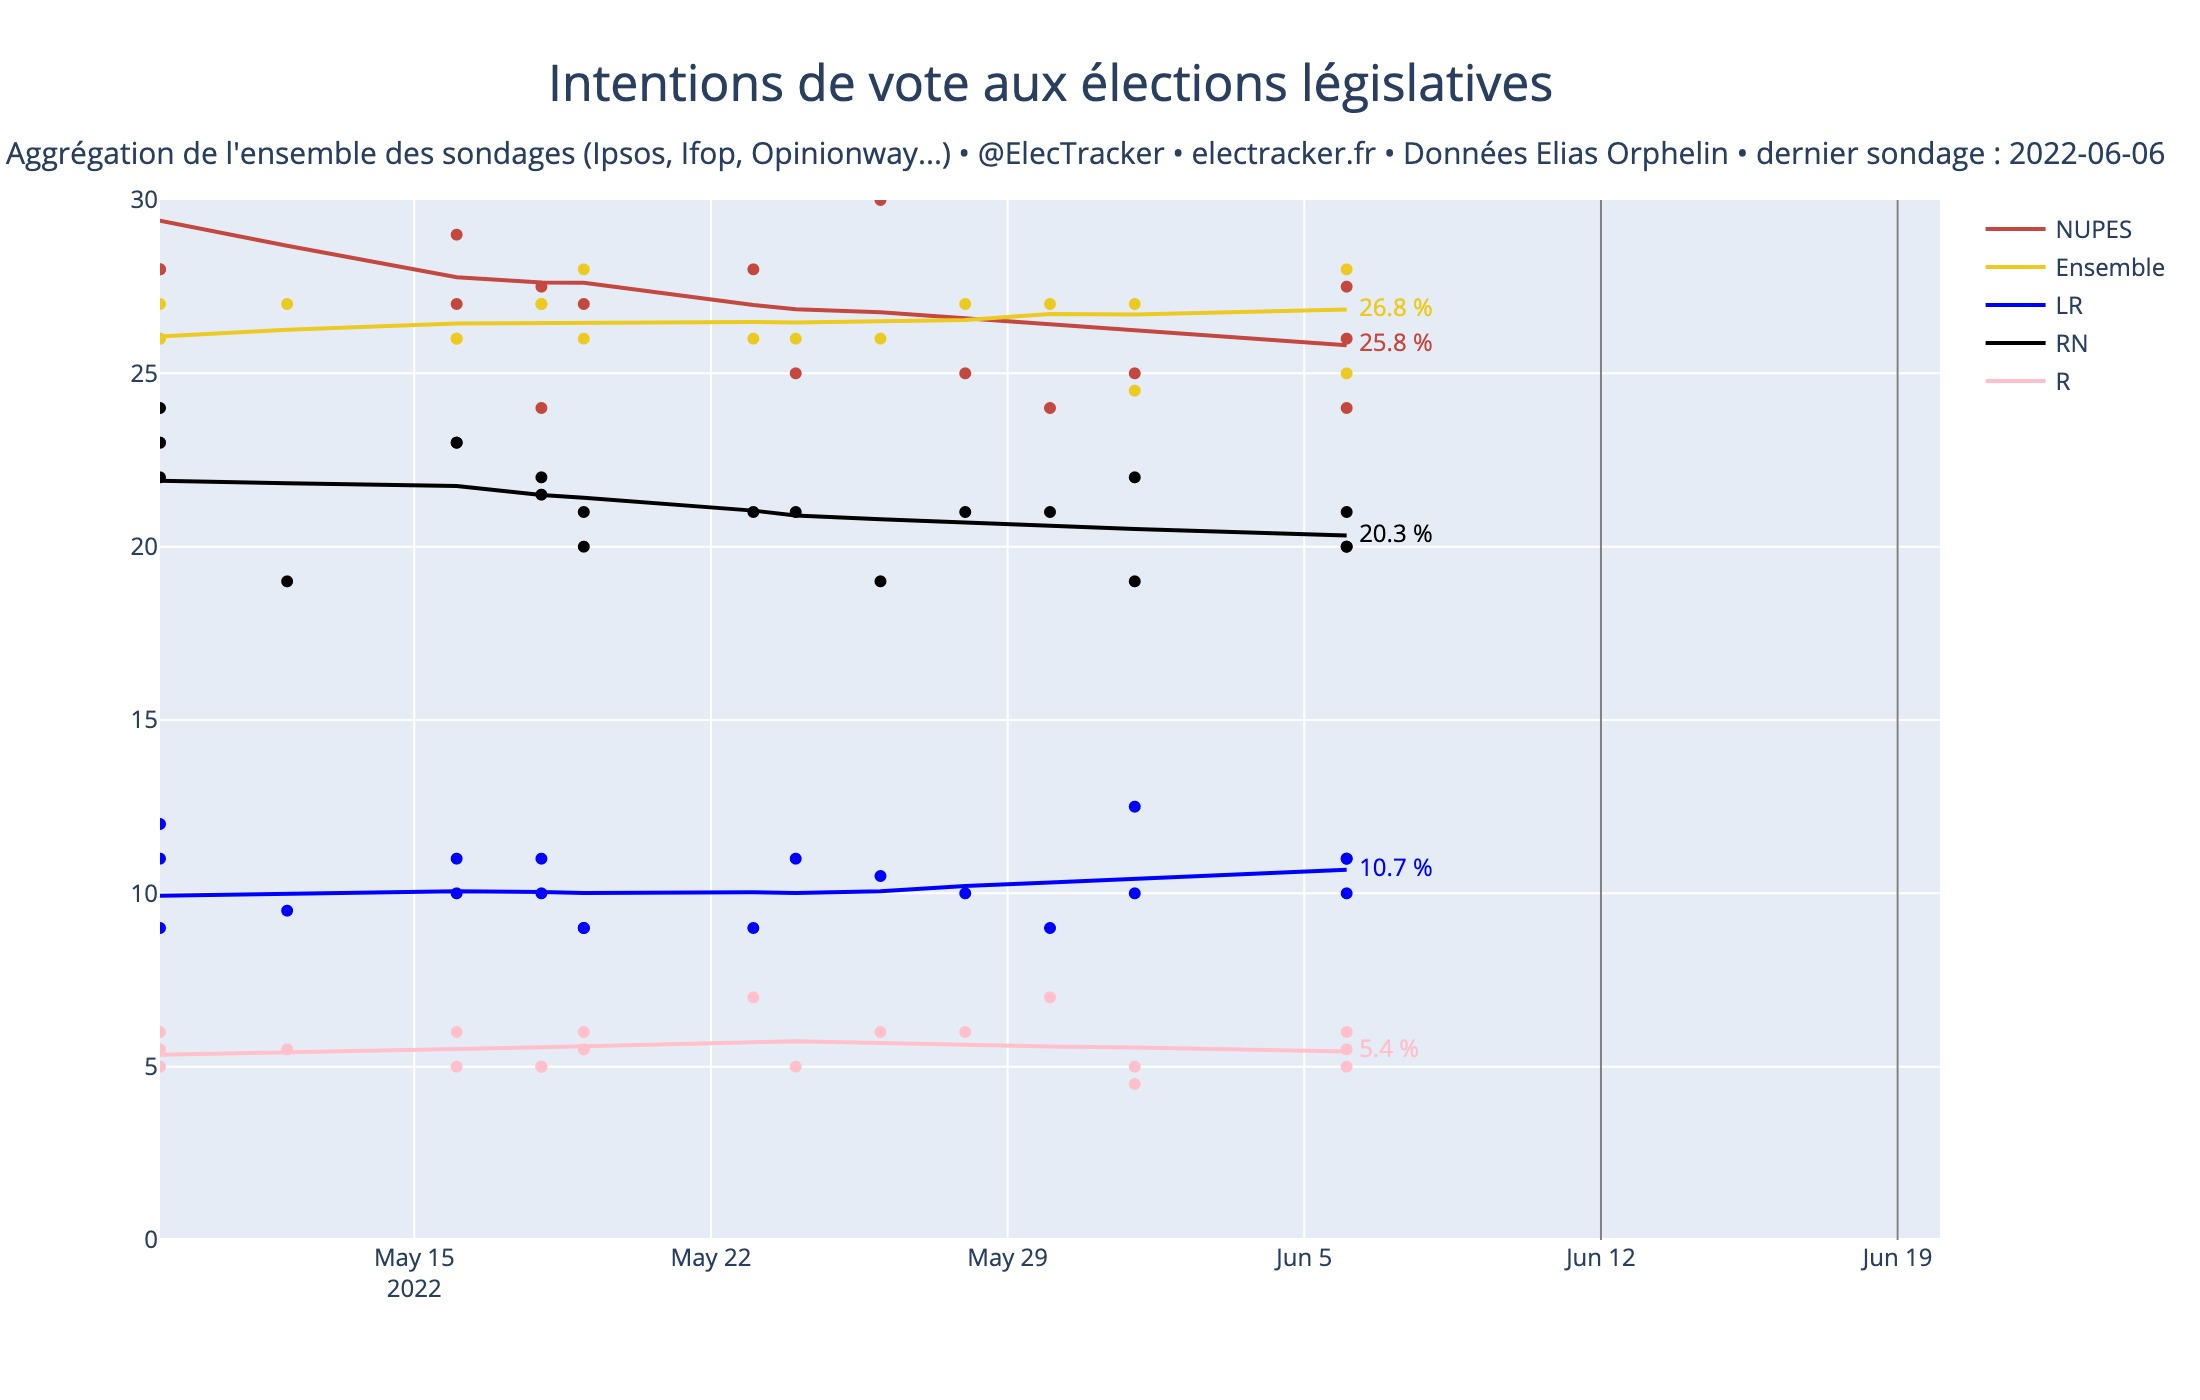
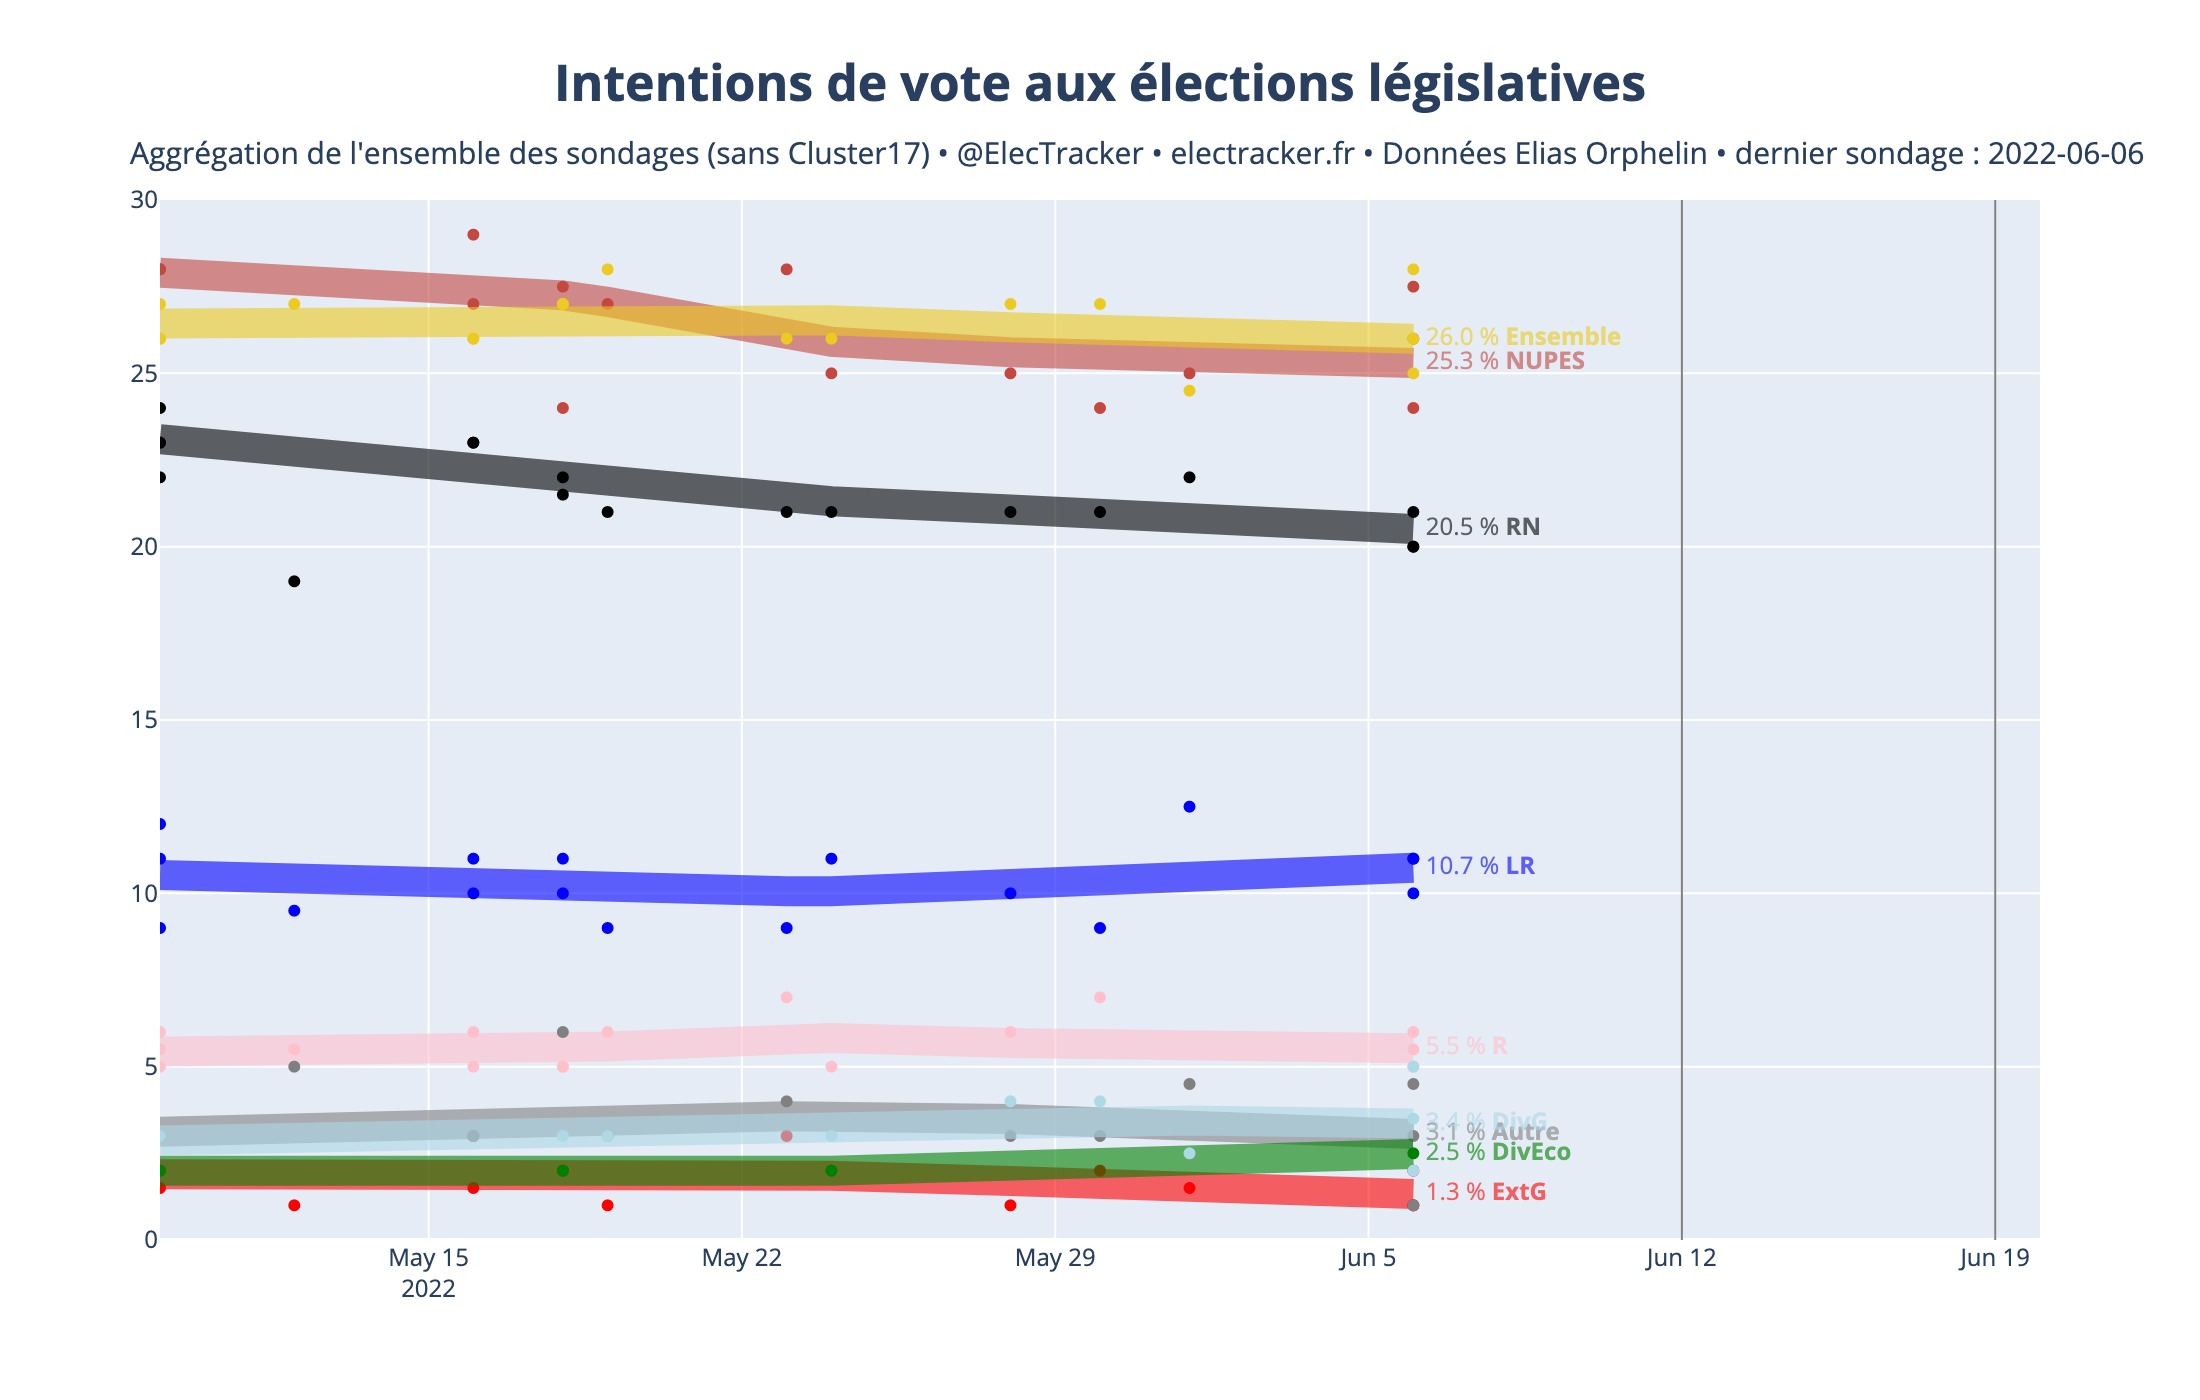
Améliorations visuelles des graphiques

diff --git a/src/graphique.py b/src/graphique.py
@@ -11,7 +11,10 @@ couleurs={
     "ExtG": "red",
     "RN": "black",
     "LR": "blue",
-    "R": "pink"
+    "R": "pink",
+    "DivEco": "green",
+    "DivG": "lightblue",
+    "Autre": "grey"
 }
 
 print(data.keys())
@@ -46,10 +49,21 @@ def graphique_sieges():
                     mode="lines+text",
                     marker_color=couleurs.get(parti, "black"),
                     name=parti,
+                    showlegend=False,
                     text=[""] * (len(data[parti]["sieges_haut_loess"])-1) + ["  " + str(round(data[parti]["sieges_bas_loess"][-1]))],
                     textposition="middle right",
                     textfont=dict(color=couleurs.get(parti, "black")),
                 )
+            )
+
+            fig.add_annotation(
+                x=data[parti]["fin_enquete"][-1],
+                y=(data[parti]["sieges_bas_loess"][-1]+data[parti]["sieges_haut_loess"][-1])/2,
+                text="     <b>" + parti + "</b>",
+                ay=0,
+                showarrow=False,
+                xanchor='left',
+                font=dict(color=couleurs.get(parti, "black"))
             )
 
             for numero_sondage in range(len(data[parti]["sieges_bas"])):
@@ -104,7 +118,7 @@ def graphique_sieges():
             "y": 1.15,
             "xref": "paper",
             "yref": "paper",
-            "text": f"Projection des sièges aux élections législatives",
+            "text": f"<b>Projection des sièges aux élections législatives</b>",
             "font": {"size": 25,},
             "xanchor": "center",
             "showarrow": False,
@@ -116,7 +130,7 @@ def graphique_sieges():
             "y": 1.07,
             "xref": "paper",
             "yref": "paper",
-            "text": f"Aggrégation de l'ensemble des sondages (Ipsos, Ifop, Opinionway...) • @ElecTracker • electracker.fr • Données Elias Orphelin • dernier sondage : {data['Ensemble']['fin_enquete'][-1]}",
+            "text": f"Aggrégation de l'ensemble des sondages • @ElecTracker • electracker.fr • Données Elias Orphelin • dernier sondage : {data['Ensemble']['fin_enquete'][-1]}",
             "font": {"size": 15},
             "xanchor": "center",
             "showarrow": False,
@@ -130,7 +144,7 @@ def graphique_score():
 
     for parti in data:
         
-        if parti not in ["Autre", "ExtG", "DivEco", "PA", "DivG"]:
+        if parti not in []: #["Autre", "ExtG", "DivEco", "PA", "DivG"]:
             print(parti)
             fig.add_trace(
                 go.Scatter(
@@ -149,8 +163,10 @@ def graphique_score():
                     y=data[parti]["score_loess"],
                     marker_color=couleurs.get(parti, "black"),
                     mode="lines+text",
-                    showlegend=True,
-                    text=[""] * (len(data[parti]["score"])-1) + ["  " + str(round(data[parti]["score_loess"][-1], 1)) + " %"],
+                    line_width=15,
+                    opacity=0.6,
+                    showlegend=False,
+                    text=[""] * (len(data[parti]["score"])-1) + ["  " + str(round(data[parti]["score_loess"][-1], 1)) + " % <b>" + parti + "</b>"],
                     textposition="middle right",
                     textfont=dict(color=couleurs.get(parti, "black")),
                     name=parti
@@ -192,7 +208,7 @@ def graphique_score():
             "y": 1.15,
             "xref": "paper",
             "yref": "paper",
-            "text": f"Intentions de vote aux élections législatives",
+            "text": f"<b>Intentions de vote aux élections législatives</b>",
             "font": {"size": 25,},
             "xanchor": "center",
             "showarrow": False,
@@ -204,7 +220,7 @@ def graphique_score():
             "y": 1.07,
             "xref": "paper",
             "yref": "paper",
-            "text": f"Aggrégation de l'ensemble des sondages (Ipsos, Ifop, Opinionway...) • @ElecTracker • electracker.fr • Données Elias Orphelin • dernier sondage : {data['Ensemble']['fin_enquete'][-1]}",
+            "text": f"Aggrégation de l'ensemble des sondages (sans Cluster17) • @ElecTracker • electracker.fr • Données Elias Orphelin • dernier sondage : {data['Ensemble']['fin_enquete'][-1]}",
             "font": {"size": 15},
             "xanchor": "center",
             "showarrow": False,

diff --git a/src/loess_mean.py b/src/loess_mean.py
@@ -26,10 +26,10 @@ def export_json():
     with open('SondagesLegislatives2022Loess.json', 'w') as outfile:
         json.dump(dict_json, outfile)
 
-def get_loess_mean(df_parti):
+def get_loess_mean(df_parti, frac=0.8):
     fin_enquete_ts = pd.to_datetime(df_parti["fin_enquete"], format="%d/%m/%Y").astype(np.int64) // 10 ** 9
     y = df_parti.intentions.values
-    xout, yout, wout = loess_1d.loess_1d(fin_enquete_ts.values, y, xnew=None, degree=1, frac=0.8, npoints=None, rotate=False, sigy=None)
+    xout, yout, wout = loess_1d.loess_1d(fin_enquete_ts.values, y, xnew=None, degree=1, frac=frac, npoints=None, rotate=False, sigy=None)
     xout_dt = [datetime.datetime.fromtimestamp(date).strftime('%Y-%m-%d') for date in xout]
     return xout_dt, yout, y
 
@@ -48,7 +48,8 @@ def main():
             xout_dt, yout_sieges_bas_loess, yout_sieges_bas = get_loess_mean(df_parti_sieges_bas)
 
             df_parti_score = df_parti[df_parti["type"]=="score"]
-            xout_dt_score, yout_score_loess, yout_score = get_loess_mean(df_parti_score)
+            df_parti_score = df_parti_score[df_parti_score["nom_institut"]!="Cluster17"]
+            xout_dt_score, yout_score_loess, yout_score = get_loess_mean(df_parti_score, frac=0.8)
 
             add_to_json(
                 parti=parti, 

diff --git a/src/test.py b/src/test.py
@@ -1,0 +1,7 @@
+import pandas as pd
+
+df = pd.read_csv("https://raw.githubusercontent.com/EliasOrphelin/Legislatives2022/main/SondagesLegislatives2022.csv")
+df = df[df["type"]=="score"]
+df = df[df["nom_institut"]!="Cluster17"]
+df = df[df["parti"]=="Ensemble"]
+print(df)
